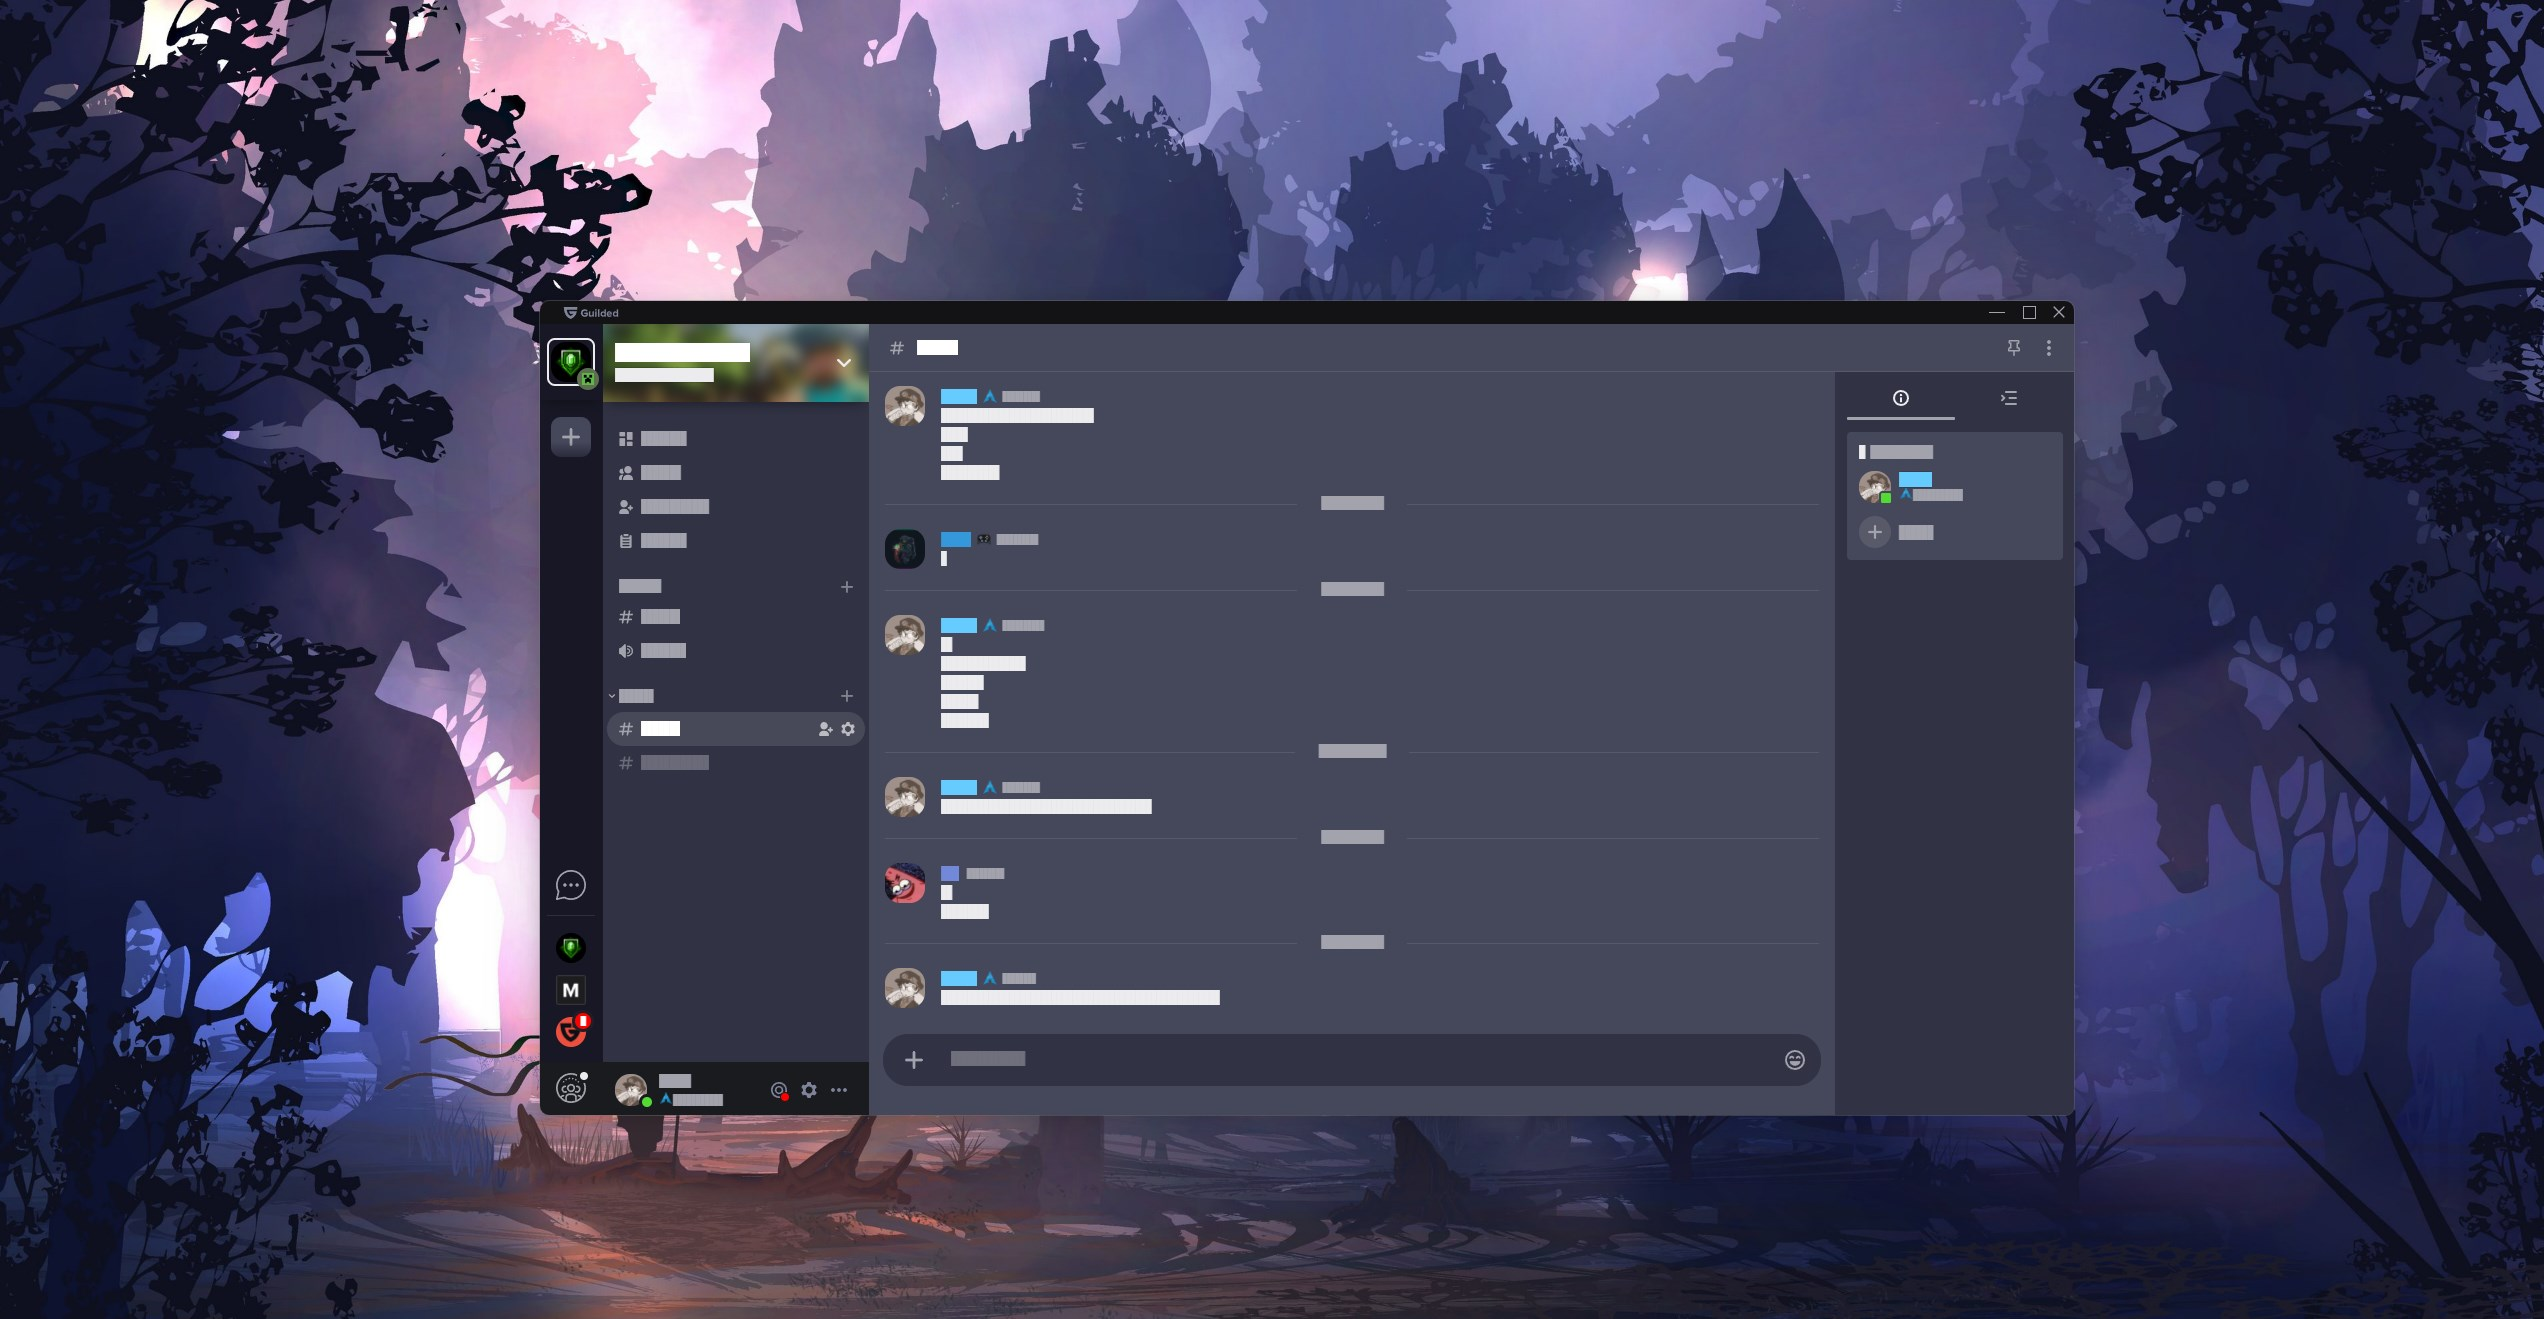
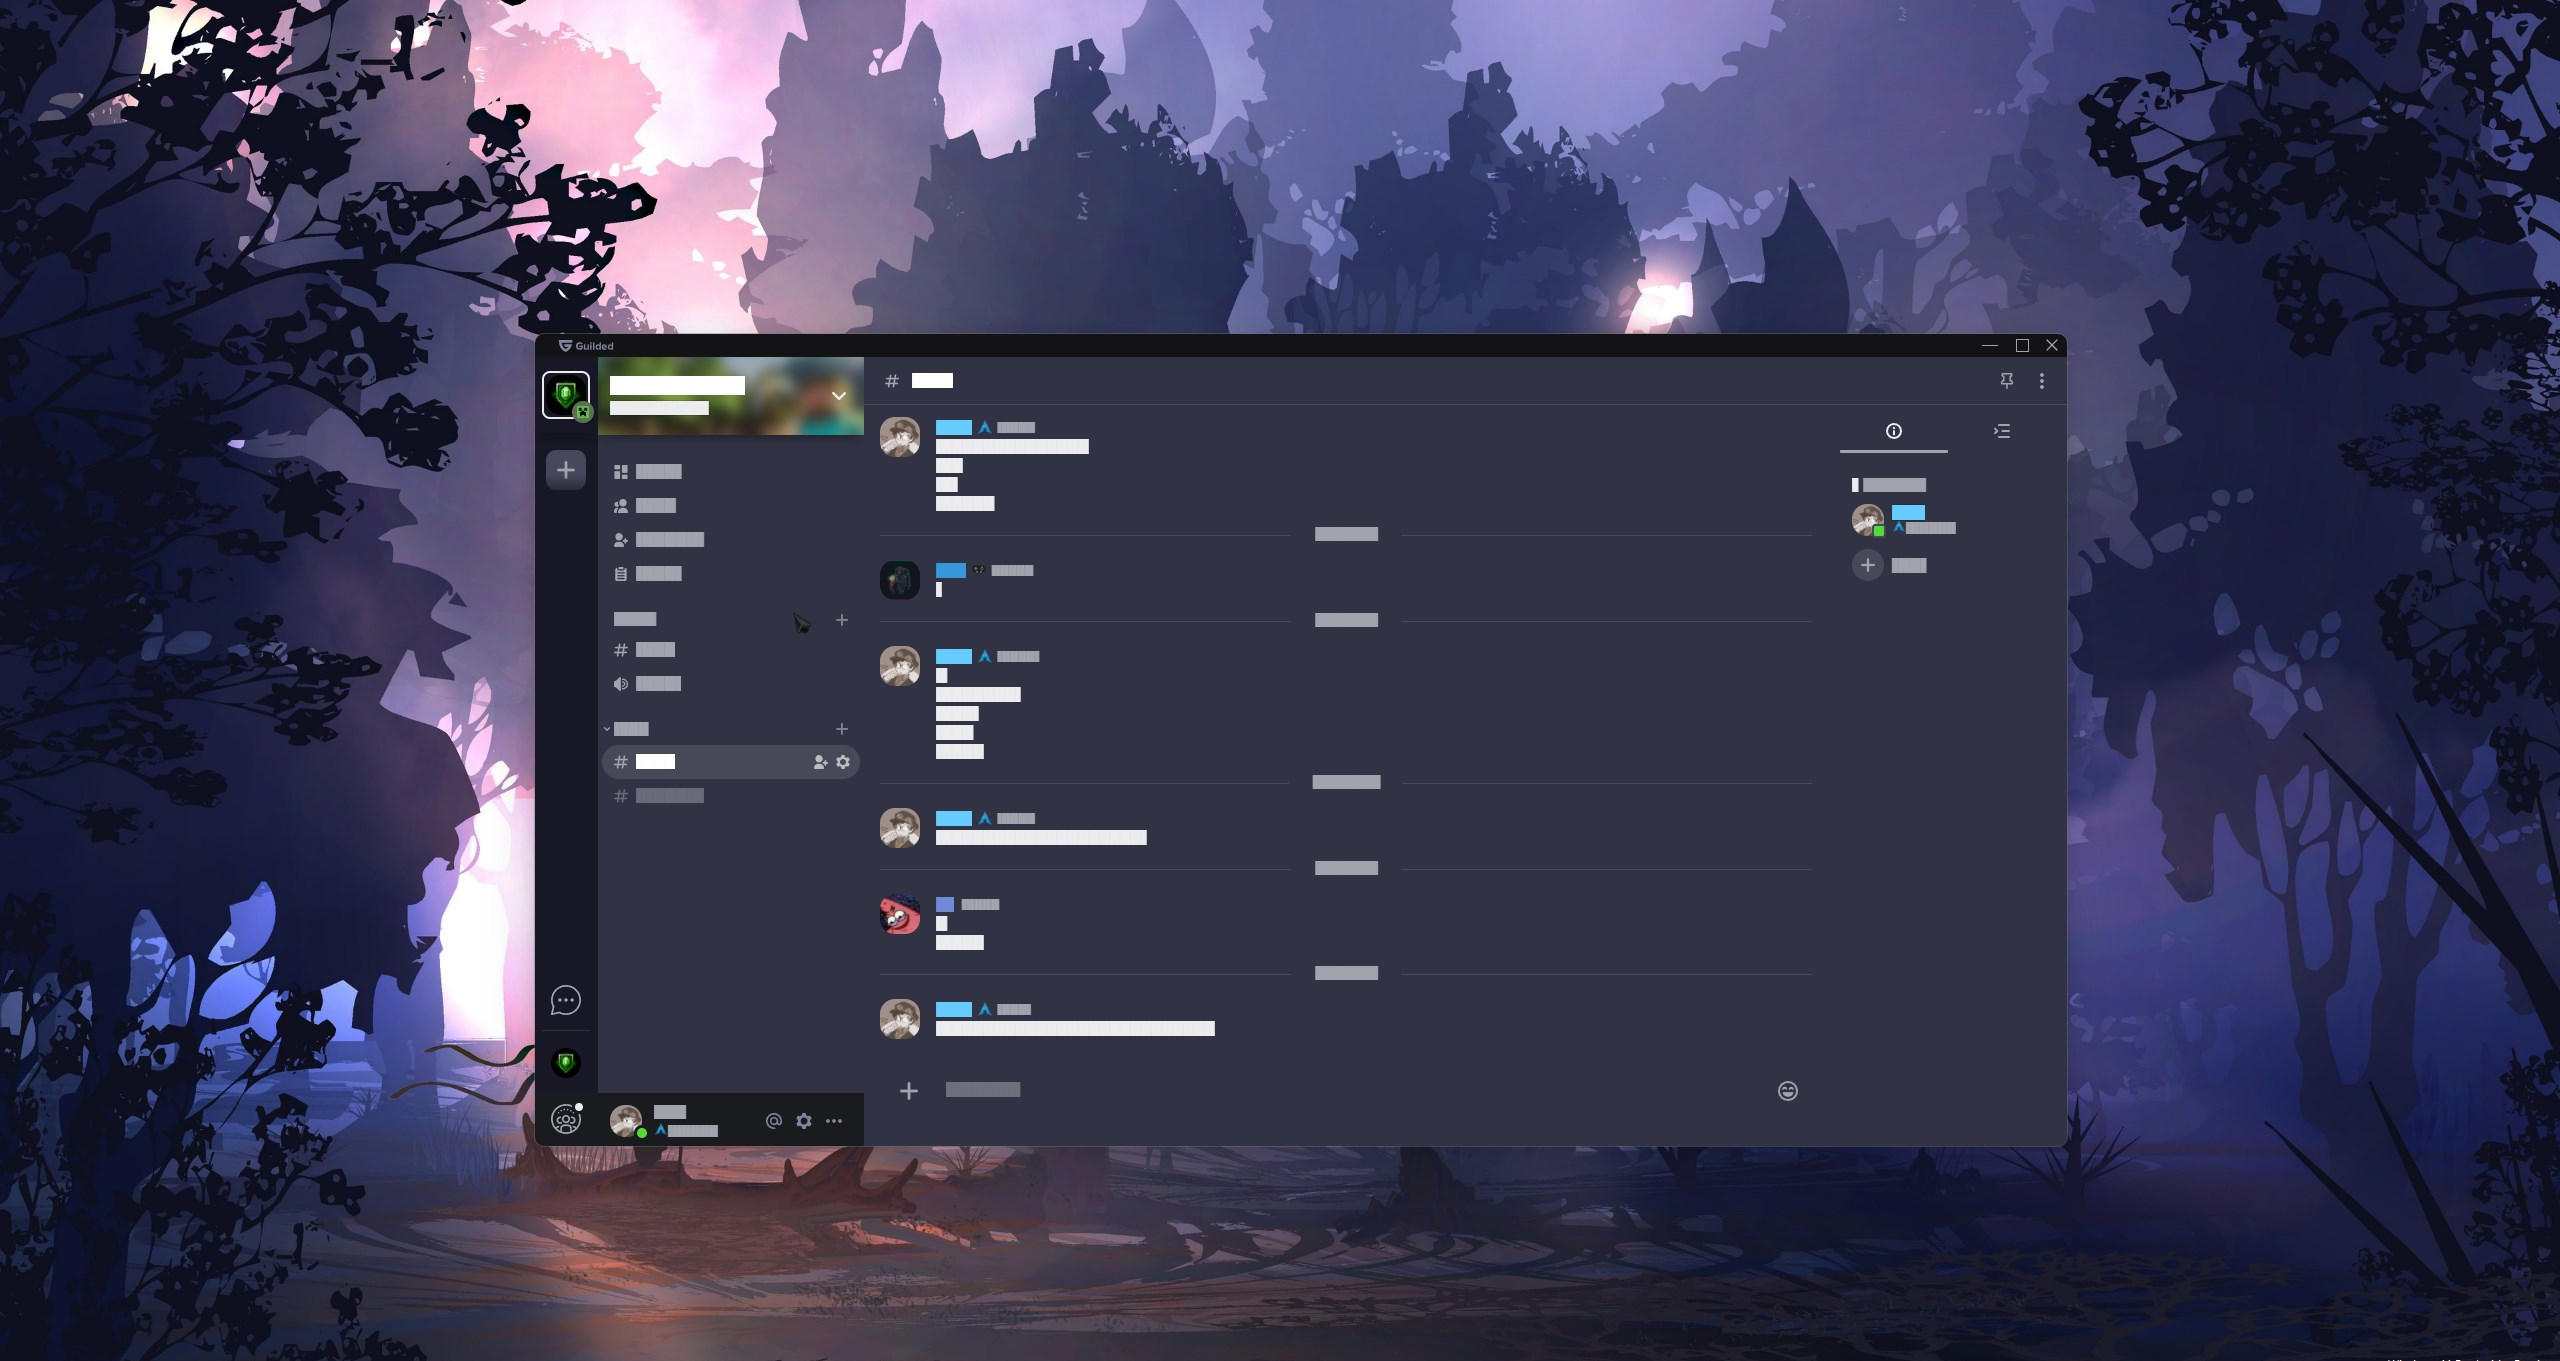
Fix up theme

diff --git a/catppuccin.css b/catppuccin.css
@@ -115,7 +115,7 @@ font-family: 'Nunito', sans-serif;
 .TypeaheadMenu-container,
 .TournamentSettingsSupportStaff-container,
 .TournamentSettingsBracket-container {
-    background-color: #45475a !important;
+    background-color: #313244 !important;
 }
 .TeamNavHeaderRowButton-container,
 .TransientMenu-container {
@@ -141,7 +141,7 @@ defs mask rect,
 .UserProfilePictureControl-picture,
 .DraftInputWithTitleV2-creator-image,
 .LoggedInUserAvatar-picture {
-    border-radius: 25% !important;
+    border-radius: 42% !important;
     rx: 25%;
     ry: 25%;
 }
@@ -303,7 +303,7 @@ defs mask rect,
 .ChannelActivityDisplay-group-header,
 .BannerWithButton-container,
 .ChatV2MessageReplyTooltip-content-wrapper, .ChatV2MessageReplyTooltip-arrow {
-    background-color: #a6e3a1;
+    background-color: #181825;
 }
 .SwitchInput-container-on .SwitchInput-slide {
     background-color: #a6e3a1;
@@ -517,6 +517,9 @@ defs mask rect,
 }
 .ProgressiveLoadedImage-container {
     border-radius: 15px;
+}
+.NavV4Footer-footer-content, .NavV4Footer-right {
+    border-radius: 0px 15px 0px 0px;
 }
 /* Enable for preview with Redacted font
 * {
